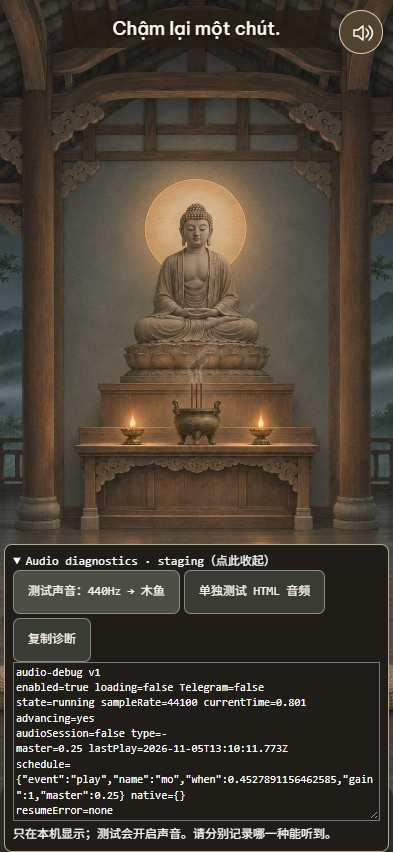
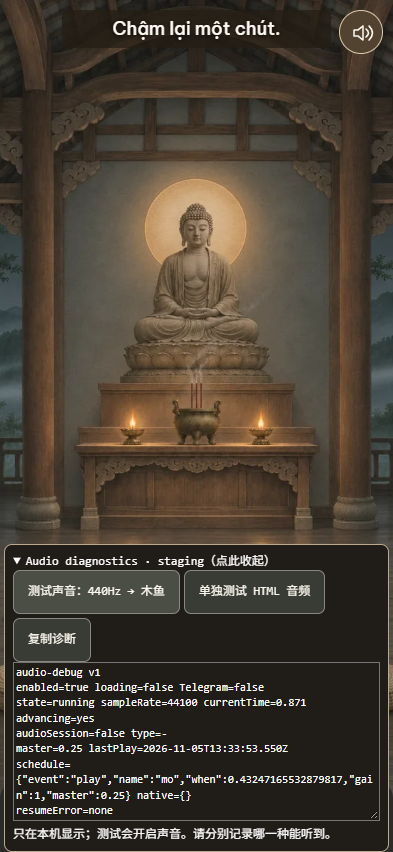
Prefer CDN-cacheable MP3 while retaining AAC fallback

diff --git a/tests/iphone-audio-check.js b/tests/iphone-audio-check.js
@@ -2,9 +2,9 @@ async(page)=>{
  const p=await page.context().browser().newPage({viewport:{width:393,height:852}}),assert=(v,m)=>{if(!v)throw Error(m)},errors=[];
  p.on('pageerror',e=>errors.push(e.message));
  try{
-  await p.goto('http://127.0.0.1:8800/?debug=audio');await p.locator('#audio-test').waitFor();
+  await p.goto('http://127.0.0.1:8813/?debug=audio');await p.locator('#audio-test').waitFor();
   assert(await p.evaluate(()=>performance.getEntriesByType('resource').every(r=>!r.name.includes('/assets/audio/'))),'debug does not preload sound');
-  await p.locator('#audio-test').click();await p.waitForFunction(()=>document.querySelector('#audio-debug textarea').value.includes('mo.m4a: HTTP=200')&&document.querySelector('#audio-debug textarea').value.includes('"name":"mo"'));
+  await p.locator('#audio-test').click();await p.waitForFunction(()=>document.querySelector('#audio-debug textarea').value.includes('mo.mp3: HTTP=200')&&document.querySelector('#audio-debug textarea').value.includes('"name":"mo"'));
   const good=await p.locator('#audio-debug textarea').inputValue();assert(good.includes('decode=ok')&&good.includes('advancing=yes'),'decode and clock');
   await p.screenshot({path:'E:/cloudtemple/screenshots/iphone-audio-debug.png'});
   await p.locator('#audio-native-test').click();await p.waitForFunction(()=>document.querySelector('#audio-debug textarea').value.includes('"result":"playing"'));

diff --git a/audio.js b/audio.js
@@ -24,7 +24,8 @@ export function createTempleAudio({onChange=()=>{},onError=()=>{},volume=()=>.25
    if(this.requests.has(name))return this.requests.get(name);
    const signal=this.controller.signal;
    const request=(async()=>{
-    let error;for(const ext of ['m4a','mp3']){
+    // MP3 is eligible for Cloudflare's default extension cache; AAC remains a decode fallback.
+    let error;for(const ext of ['mp3','m4a']){
      if(signal.aborted)throw new DOMException('Muted','AbortError');
      let phase='request';try{const response=await fetch(assetURL(`audio/${name}.${ext}`),{signal,credentials:'omit'});this.observe({event:'file',name,ext,status:response.status,mime:response.headers.get('content-type'),decode:'pending'});if(!response.ok)throw Error(`HTTP ${response.status}`);phase='decode';const buffer=await this.context.decodeAudioData(await response.arrayBuffer());if(signal.aborted)throw new DOMException('Muted','AbortError');this.buffers.set(name,buffer);this.observe({event:'file',name,ext,decode:'ok',duration:buffer.duration});return buffer;}catch(e){error=e;this.observe({event:'file',name,ext,[phase]:'failed',error:`${e.name}: ${e.message}`});if(signal.aborted)throw e;}
     }throw error;

diff --git a/交付说明-缓存与手机加载.md b/交付说明-缓存与手机加载.md
@@ -17,6 +17,7 @@
 - 每张图片最多两次请求；失败显示占位且进入诊断条。选人预览也使用同一加载器，避免独立 img 留空。公共图片/音频 fetch 使用 credentials: omit。
 - 场景加载开始 3 秒仍未完成时，释放遮罩、显示带文字占位并开放操作；图片到达后淡入。迟到的响应不能覆盖已经切换到的页面。3 秒指 JS 场景加载阶段，不承诺 DNS、TLS、JS 下载也能在 3 秒内完成。
 - `?debug=audio` 增加 release 与图片请求次数、状态码、解码/占位状态；仍不上传诊断、不读取密码或 Token。
+- 线上实查 M4A 为 `CF-Cache-Status: DYNAMIC`。Cloudflare 默认缓存扩展名包含 MP3、不含 M4A，因此改为优先现有 MP3、AAC 回退，不改录音内容，不新增格式或账号配置。[扩展名规则](https://developers.cloudflare.com/cache/concepts/default-cache-behavior/)。M4A 仍能匿名 200 并受浏览器长缓存，但不宣称它已命中 CDN。
 
 ## 弱网前后对比
 
@@ -24,12 +25,12 @@ Windows 上 Playwright **WebKit 26.4**，iPhone 15 视口 393×852 / DPR 3，冷
 
 | 指标 | 优化前 | 优化后 |
 |---|---:|---:|
-| 入口按钮可操作、遮罩消失 | 2,725 ms | 2,210 ms |
-| 首屏同源响应体合计 | 337,465 Bytes | 186,817 Bytes |
+| 入口按钮可操作、遮罩消失 | 2,745 ms | 2,212 ms |
+| 首屏同源响应体合计 | 337,465 Bytes | 186,961 Bytes |
 | 首屏场景图 | 259,632 Bytes | 105,608 Bytes |
 | 首屏图片数量 / 音频数量 | 1 / 0 | 1 / 0 |
 
-可交互时间减少约 19%，响应体减少约 45%。响应体字节包含 HTML、JS/CSS、布局与首屏图，不含 HTTP 头；不是线路总流量。数据和运行脚本：`screenshots/mobile-performance.json`、`tests/mobile-performance.py`。基准是修改前 staging `cb4e5f6f3f4e` 的静态包；测试中的 e014a4fca306 是打包时 HEAD 标记，正式发布用新提交 SHA。
+可交互时间减少约 19%，响应体减少约 45%。响应体字节包含 HTML、JS/CSS、布局与首屏图，不含 HTTP 头；不是线路总流量。数据和运行脚本：`screenshots/mobile-performance.json`、`tests/mobile-performance.py`。基准是修改前 staging `cb4e5f6f3f4e` 的静态包；最终基准数据使用 6e39e2f31099 静态包；随后仅调整音频格式优先顺序，不影响首屏音频零下载策略。
 
 ## 验证
 
